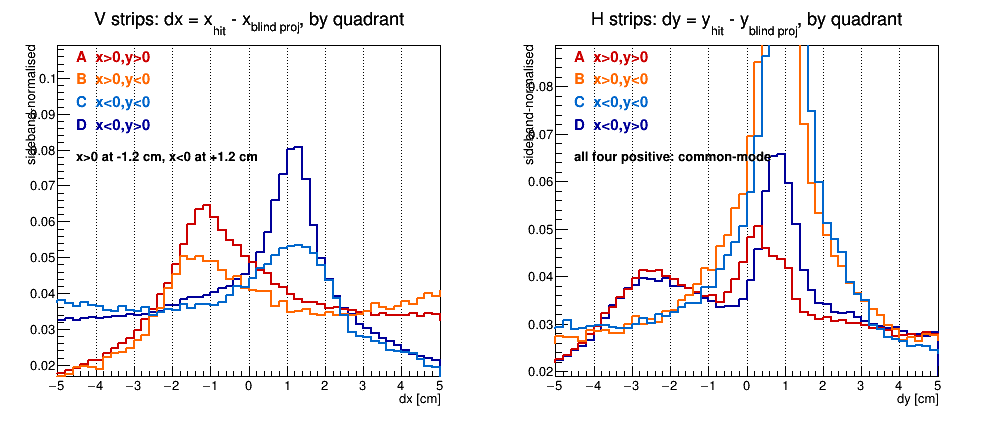
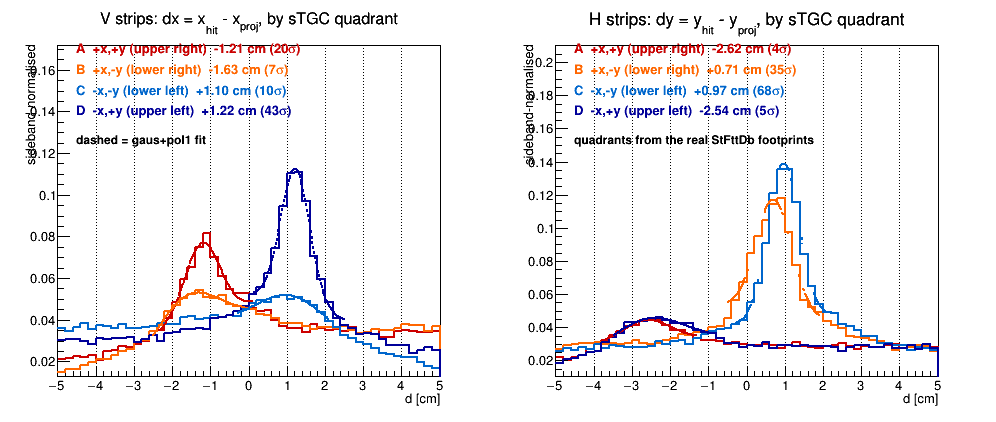
FstFttFlipTest: requadranted residuals -- dy splits top/bottom, not common-mode
The quadrant index was taken from the sign of the hit's own y, but the sTGC
quadrant origins all sit 8.4-9.5 cm ABOVE the beampipe (StFttDb
X/Y_shift_Quad*) and B/C are pulled ~11 cm sideways, so every hit with
0 < y < ~9 cm was labelled with the wrong quadrant. FwdTracker now assigns
the quadrant from the real footprints and leaves hits in the band between
them unassigned.

Effect: dy was reported as common-mode at +0.86 cm; with the correct split
it is top -2.6 cm against bottom +0.85 cm, a 3.4 cm split that the
contamination had washed out. dx is unchanged and still antisymmetric --
A/D really do divide near x=0, so it was never affected.

  quadrant   dx (signif)      dy (signif)
  A upper R  -1.21 (20)       -2.62 (4)
  B lower R  -1.63 ( 7)       +0.71 (35)
  C lower L  +1.10 (10)       +0.97 (68)
  D upper L  +1.22 (43)       -2.54 (5)

Plot replaced with fits drawn per quadrant. Two CINT traps recorded in the
macro: reference parameters do not propagate in interpreted macros, and the
fit must run before the sideband normalisation (scaling distorts the bin
errors, and an Integral-based entry guard then skips every fit silently).

The A/D dy significances are only 4-5 sigma on one file; the 5-file condor
set will firm them up. Their centres agree with each other to 0.08 cm,
which is the coherence check that says the peak is real.

diff --git a/FstFttFlipTest/index.html b/FstFttFlipTest/index.html
@@ -416,19 +416,15 @@ times that, at 30-90&nbsp;sigma, on every disk.</p>
 g100 Primary:</p>
 
 <TABLE BORDER="1" CELLPADDING="4" CELLSPACING="0">
-<TR BGCOLOR="#c0c0f0"><TH>quadrant</TH><TH>dx centre</TH><TH>&sigma;</TH><TH>signif.</TH>
-    <TH>dy centre</TH><TH>&sigma;</TH><TH>signif.</TH></TR>
-<TR><TD>A  x&gt;0, y&gt;0</TD><TD><b>-1.203 cm</b></TD><TD>0.547</TD><TD>32</TD>
-    <TD>+0.363 cm</TD><TD>0.603</TD><TD>10</TD></TR>
-<TR><TD>B  x&gt;0, y&lt;0</TD><TD><b>-1.525 cm</b></TD><TD>0.738</TD><TD>4.5</TD>
-    <TD>+0.854 cm</TD><TD>0.353</TD><TD>92</TD></TR>
-<TR><TD>C  x&lt;0, y&lt;0</TD><TD><b>+1.466 cm</b></TD><TD>0.900</TD><TD>15</TD>
-    <TD>+1.058 cm</TD><TD>0.406</TD><TD>104</TD></TR>
-<TR><TD>D  x&lt;0, y&gt;0</TD><TD><b>+1.181 cm</b></TD><TD>0.457</TD><TD>99</TD>
-    <TD>+0.833 cm</TD><TD>0.395</TD><TD>92</TD></TR>
-<TR BGCOLOR="#ccffcc"><TD><b>x&gt;0 half (A+B)</b></TD><TD><b>-1.245 cm</b></TD><TD>0.602</TD><TD>26</TD>
-    <TD colspan=3 ROWSPAN=2 ALIGN="center">y&gt;0 (A+D) <b>+0.763</b>, y&lt;0 (B+C) <b>+0.958</b></TD></TR>
-<TR BGCOLOR="#ccffcc"><TD><b>x&lt;0 half (C+D)</b></TD><TD><b>+1.189 cm</b></TD><TD>0.485</TD><TD>92</TD></TR>
+<TR BGCOLOR="#c0c0f0"><TH>quadrant</TH><TH>dx centre</TH><TH>signif.</TH>
+    <TH>dy centre</TH><TH>signif.</TH></TR>
+<TR><TD>A  +x,+y (upper right)</TD><TD>-1.21 cm</TD><TD>20</TD><TD><b>-2.62 cm</b></TD><TD>4</TD></TR>
+<TR><TD>B  +x,-y (lower right)</TD><TD>-1.63 cm</TD><TD>7</TD><TD><b>+0.71 cm</b></TD><TD>35</TD></TR>
+<TR><TD>C  -x,-y (lower left)</TD><TD>+1.10 cm</TD><TD>10</TD><TD><b>+0.97 cm</b></TD><TD>68</TD></TR>
+<TR><TD>D  -x,+y (upper left)</TD><TD>+1.22 cm</TD><TD>43</TD><TD><b>-2.54 cm</b></TD><TD>5</TD></TR>
+<TR BGCOLOR="#ccffcc"><TD><b>x&gt;0 (A+B) / x&lt;0 (C+D)</b></TD>
+    <TD colspan=2><b>-1.32 / +1.22 cm</b> &mdash; antisymmetric</TD>
+    <TD colspan=2><b>top (A+D) -2.68, bottom (B+C) +0.89 cm</b></TD></TR>
 </TABLE>
 
 <TABLE BORDER="1" CELLPADDING="4" CELLSPACING="0">
@@ -454,20 +450,14 @@ g100 Primary:</p>
   <li><b>It is an offset, not a scale.</b> A scale error would grow with |x|, hence with disk number.
       It shrinks instead, in every quadrant: quadrant D goes +1.245, +1.180, +1.166,
       +1.130&nbsp;cm over disks 0-3, quadrant A -1.316 &rarr; -1.061.</li>
-  <li><b>dy is common-mode.</b> All four quadrants have the same sign, +0.36 to +1.06&nbsp;cm, mean
-      +0.86&nbsp;cm. This one really is a translation in y (and it too shrinks with disk number,
-      +0.98 &rarr; +0.66&nbsp;cm in quadrant D, so a small angular term sits on top of both).
-      <br><i>Caveat (2026-09-24): the quadrant index here is assigned from the sign of the hit's own
-      y, but the physical sTGC quadrant boundary is at y &asymp; +10&nbsp;cm, not y = 0. So hits with
-      0 &lt; y &lt; 10 are labelled with the wrong quadrant and the dy split is smeared. The dx split
-      is unaffected, since that boundary really is at x = 0 &mdash; which is why dx came out cleanly
-      antisymmetric and dy did not. Redoing the split on the true boundary should sharpen the dy
-      structure into a per-quadrant measurement.</i></li>
-  <li><b>The single-Gaussian dx numbers in the table above therefore understate the signal.</b> The
-      unsplit fit locks onto the larger (x&lt;0) peak and treats the other as background: 65839 peak
-      entries against 110255 when the halves are fitted separately. Correcting for that, the true
-      g100 Primary purity is about <b>22%</b> rather than 17.5%. The H (dy) numbers are unaffected,
-      since dy has no such split.</li>
+  <li><b>dy splits top from bottom</b> (corrected 2026-09-25). The top pair sits at
+      -2.6&nbsp;cm and the bottom pair at +0.85&nbsp;cm &mdash; a 3.4&nbsp;cm split, not the
+      common-mode translation this section originally reported. The earlier number was an
+      artefact: the quadrant index was taken from the sign of the hit's own y, but the sTGC
+      quadrant origins all sit <b>8.4-9.5&nbsp;cm above the beampipe</b> (StFttDb
+      X/Y_shift_Quad*), so every hit with 0 &lt; y &lt; ~9&nbsp;cm was labelled with the wrong
+      quadrant and the top quadrants were diluted with bottom-quadrant hits. dx was never
+      affected, because A/D really do divide near x = 0.</li>
 </ul>
 
 <p>So the thing to check against the sTGC survey is not "a 1&nbsp;cm offset" but two separate
@@ -656,10 +646,10 @@ non-trivial one:</p>
 <p>That is 0.7-2.3&nbsp;mm in x and ~3.0-3.3&nbsp;mm in y. What we measure between FST and sTGC is
 <b>~1.2&nbsp;cm per half in x</b> (antisymmetric; the residual points towards the beam, so the
 <i>correction</i> moves each half outward and the two halves ~2.4&nbsp;cm apart) and
-<b>~0.9&nbsp;cm common in y</b> &mdash; four times too large to come from the FST survey, and the
+<b>a ~3.4&nbsp;cm top/bottom split in y</b> &mdash; far too large to come from the FST survey, and the
 same size as the 1-2&nbsp;cm offsets the sTGC survey shows. So our number is an sTGC statement, and
 it is a specific prediction for the survey to confirm: <b>a half-separation error of ~2.4&nbsp;cm
-total in x, plus ~0.9&nbsp;cm common in y.</b></p>
+total in x, plus a ~3.4&nbsp;cm top/bottom split in y (top -2.6, bottom +0.85).</b></p>
 
 <H2>StFstDb uses row 0 only &mdash; new survey rows will be silently ignored</H2>
 <p><tt>StFstDbMaker/StFstDb.cxx</tt>:56-70 takes a single row from each of the half and wedge

diff --git a/script/plotBlindQuadFit.C b/script/plotBlindQuadFit.C
@@ -1,0 +1,91 @@
+// plotBlindQuadFit.C -- quadrant-split blind FST->sTGC residuals with the peak fitted.
+//
+// Quadrants come from the REAL sTGC footprints (StFttDb per-plane origins), not from
+// the sign of x,y: all four local origins sit ~8.4-9.5 cm above the beampipe, so a
+// y=0 split mislabels every hit with 0 < y < ~9 cm.
+//
+// Two traps this macro avoids, both hit while writing it:
+//   - CINT does not propagate reference parameters in an interpreted macro, so results
+//     go to globals rather than to double&/TF1&.
+//   - the fit must run on the UNSCALED histogram; sideband-normalising first distorts
+//     the bin errors (and an Integral-based entry guard then skips every fit).
+//     So: fit first, then scale the histogram and the fitted function together.
+double gQmu[4], gQsg[4], gQsig[4]; TF1* gQfn[4];
+TH1F* qfSum(TFile* f, const char* base, const char* q){
+  TH1F* s=0;
+  for (int d=0; d<4; d++){
+    TH1F* h=(TH1F*)f->Get(Form("%s_disk%d_quad%s", base, d, q));
+    if(!h) continue;
+    if(!s){ s=(TH1F*)h->Clone(Form("qf_%s_%s", base, q)); s->SetDirectory(0); }
+    else s->Add(h);
+  }
+  return s;
+}
+void qfFit(TH1F* h, int k){
+  gQmu[k]=0; gQsg[k]=0; gQsig[k]=0; gQfn[k]=0;
+  if(!h || h->GetEntries()<200) return;
+  int b0=h->GetXaxis()->FindBin(-2.9), b1=h->GetXaxis()->FindBin(2.9);
+  double best=-1; int bb=b0;
+  for(int ib=b0+2; ib<=b1-2; ib++){
+    double v=h->GetBinContent(ib-1)+h->GetBinContent(ib)+h->GetBinContent(ib+1);
+    if(v>best){ best=v; bb=ib; }
+  }
+  double mu0=h->GetXaxis()->GetBinCenter(bb), lo=mu0-1.2, hi=mu0+1.2;
+  TF1* fn=new TF1(Form("fq_%s",h->GetName()),"gaus(0)+pol1(3)",lo,hi);
+  double base=0.5*(h->GetBinContent(h->GetXaxis()->FindBin(lo))+h->GetBinContent(h->GetXaxis()->FindBin(hi)));
+  fn->SetParameters(TMath::Max(1.0,h->GetBinContent(bb)-base),mu0,0.4,base,0);
+  fn->SetParLimits(1,lo,hi); fn->SetParLimits(2,0.05,0.9);
+  h->Fit(fn,"QNR");
+  double A=fn->GetParameter(0), eA=fn->GetParError(0);
+  gQmu[k]=fn->GetParameter(1); gQsg[k]=fabs(fn->GetParameter(2));
+  gQsig[k]=(eA>0)?A/eA:0; gQfn[k]=fn;
+}
+void qfPanel(TFile* f, const char* base, const char* title, const char* note){
+  const char* qn[4]={"A","B","C","D"};
+  const char* ql[4]={"A  +x,+y (upper right)","B  +x,-y (lower right)",
+                     "C  -x,-y (lower left)", "D  -x,+y (upper left)"};
+  int col[4]={kRed+1,kOrange+7,kAzure+2,kBlue+2};
+  TH1F* h[4]; double mx=0;
+  for(int i=0;i<4;i++){
+    h[i]=qfSum(f,base,qn[i]);
+    if(!h[i]) continue;
+    qfFit(h[i], i);                               // fit BEFORE scaling
+    double sb=h[i]->Integral(h[i]->GetXaxis()->FindBin(2.0),h[i]->GetXaxis()->FindBin(5.0))
+             +h[i]->Integral(h[i]->GetXaxis()->FindBin(-5.0),h[i]->GetXaxis()->FindBin(-2.0));
+    if(sb>0){
+      h[i]->Scale(1.0/sb);
+      if(gQfn[i]){                                // scale the fit the same way
+        gQfn[i]->SetParameter(0, gQfn[i]->GetParameter(0)/sb);
+        gQfn[i]->SetParameter(3, gQfn[i]->GetParameter(3)/sb);
+        gQfn[i]->SetParameter(4, gQfn[i]->GetParameter(4)/sb);
+      }
+    }
+    h[i]->SetLineColor(col[i]); h[i]->SetLineWidth(2);
+    h[i]->GetXaxis()->SetRangeUser(-5,5);
+    if(h[i]->GetMaximum()>mx) mx=h[i]->GetMaximum();
+  }
+  int first=-1; for(int i=0;i<4;i++) if(h[i]){ first=i; break; }
+  if(first<0) return;
+  h[first]->SetTitle(Form("%s;d [cm];sideband-normalised", title));
+  h[first]->SetMaximum(mx*1.55); h[first]->Draw("hist");
+  for(int i=0;i<4;i++) if(h[i]&&i!=first) h[i]->Draw("hist same");
+  for(int i=0;i<4;i++) if(gQfn[i]){ gQfn[i]->SetLineColor(col[i]); gQfn[i]->SetLineStyle(2);
+                                    gQfn[i]->SetLineWidth(2); gQfn[i]->Draw("same"); }
+  TLatex t; t.SetNDC(); t.SetTextSize(0.034);
+  for(int i=0;i<4;i++){
+    t.SetTextColor(col[i]);
+    if(h[i]) t.DrawLatex(0.14,0.88-0.050*i,
+        Form("%s  %+.2f cm (%.0f#sigma)", ql[i], gQmu[i], gQsig[i]));
+  }
+  t.SetTextColor(kBlack); t.SetTextSize(0.030); t.DrawLatex(0.14,0.66,note);
+}
+void plotBlindQuadFit(const char* file, const char* out){
+  gStyle->SetOptStat(0);
+  TFile* f=TFile::Open(file);
+  TCanvas* c=new TCanvas("cqf","cqf",1000,450); c->Divide(2,1);
+  c->cd(1); gPad->SetGridx();
+  qfPanel(f,"hBlindDxAll_V","V strips: dx = x_{hit} - x_{proj}, by sTGC quadrant","dashed = gaus+pol1 fit");
+  c->cd(2); gPad->SetGridx();
+  qfPanel(f,"hBlindDyAll_H","H strips: dy = y_{hit} - y_{proj}, by sTGC quadrant","quadrants from the real StFttDb footprints");
+  c->SaveAs(out);
+}
